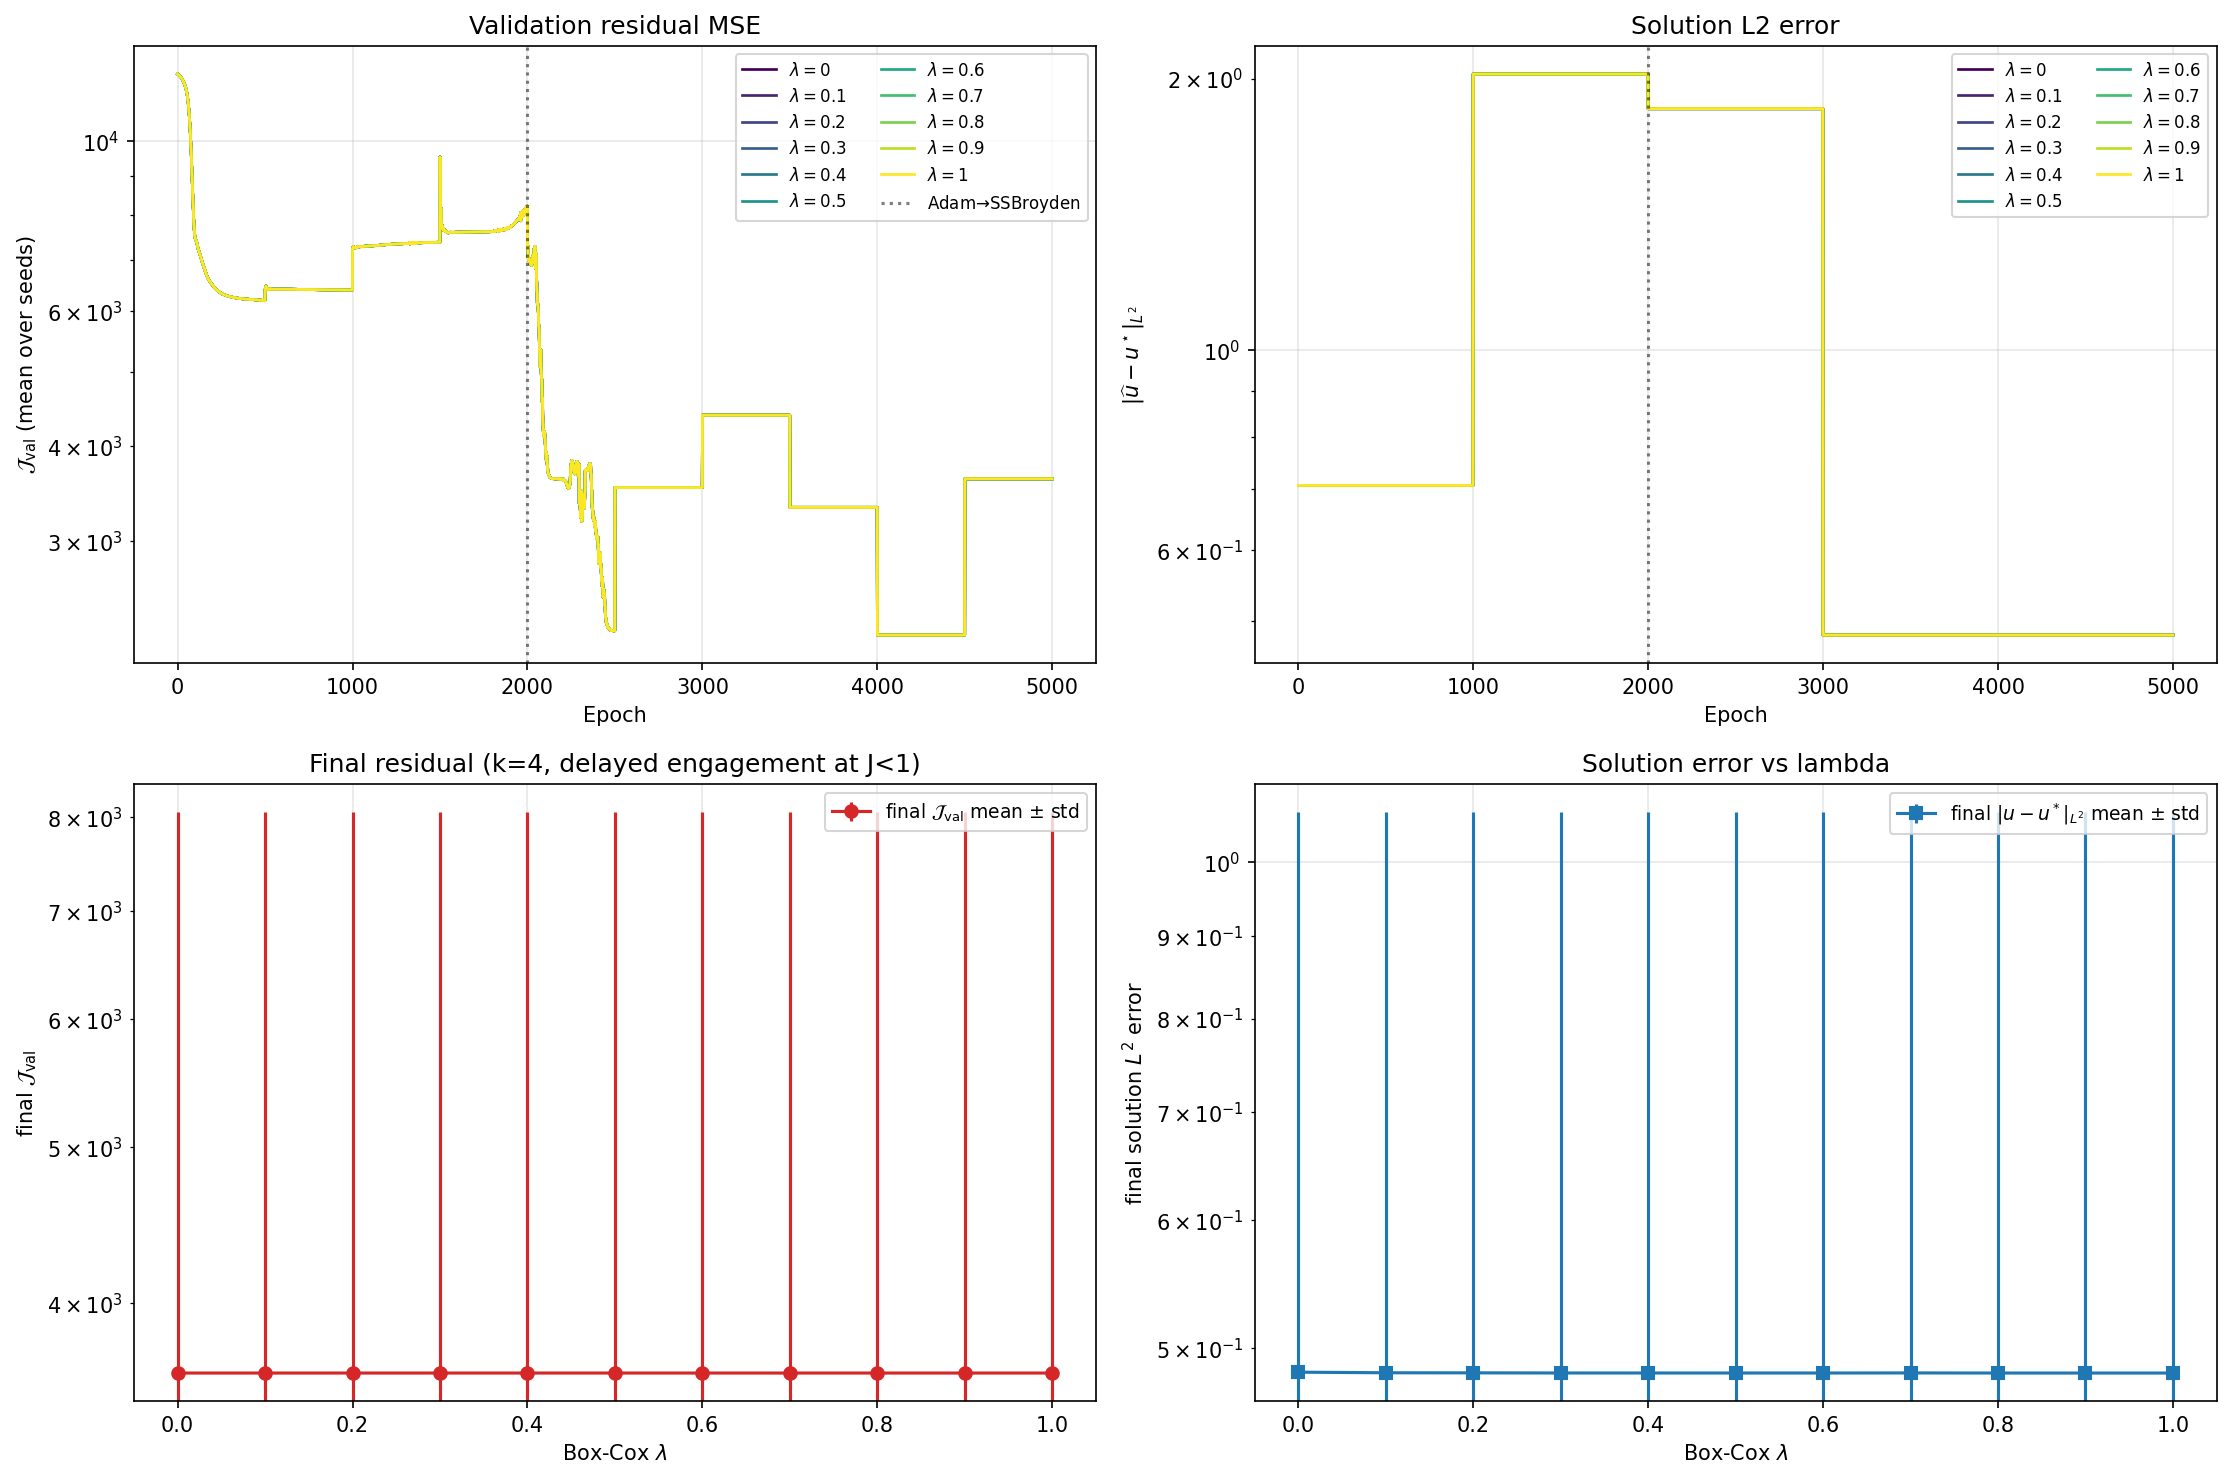
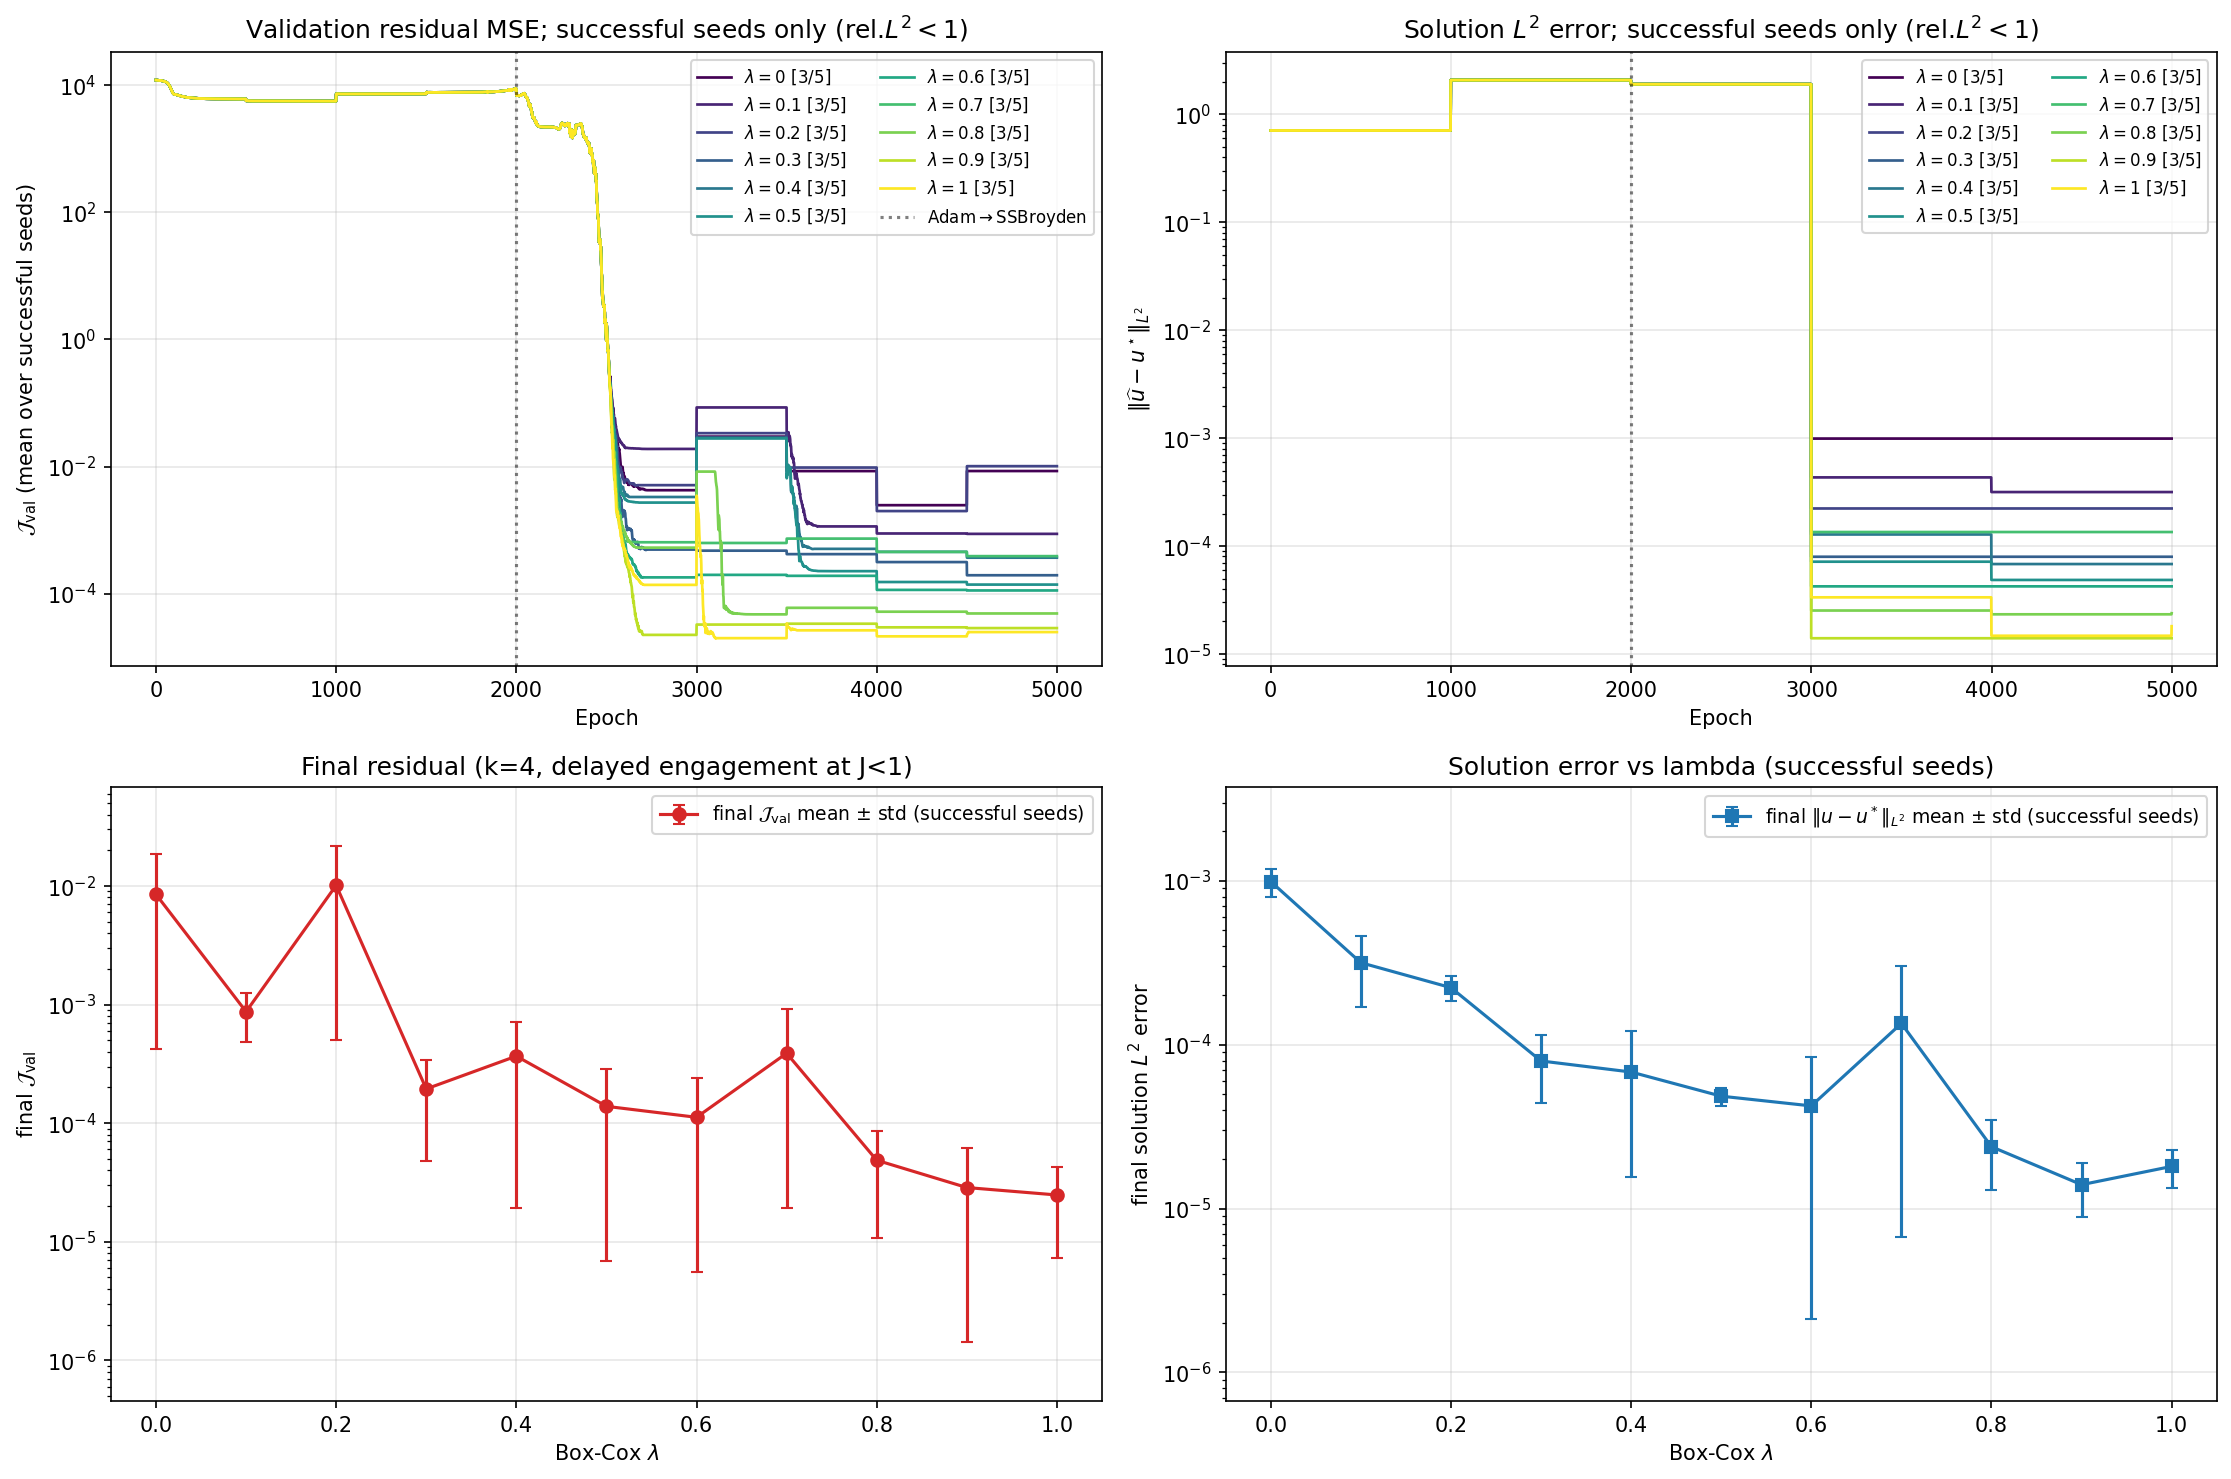
iteration

diff --git a/BVP/one_d/boxcox_sweep_1d_finegrained.py b/BVP/one_d/boxcox_sweep_1d_finegrained.py
@@ -126,6 +126,24 @@ class SeedResult:
     sol_l2_history: np.ndarray
 
 
+# A seed counts as successful iff its final relative L^2 error sits below
+# this threshold. 1.0 puts the cut-off at the trivial zero predictor; with
+# u_exact = sin(4 pi x) on [0,1] that's at ||u_exact||_{L^2} = sqrt(1/2),
+# so a seed that fails to escape the Adam plateau saturates near rel.L^2 ~= 1.
+# All conditional statistics in plot_sweep / write_summary are taken over the
+# success subset to avoid having the unconditional mean dominated by 1-2 seeds
+# that never enter the small-loss regime (which silently wipes out the
+# lambda dependence on networks that are near the edge of trainability).
+SUCCESS_REL_L2_DEFAULT: float = 1.0
+
+
+def is_successful(s: "SeedResult", rel_l2_threshold: float) -> bool:
+    """True iff the final iterate beats the configured rel. L^2 threshold."""
+    return bool(np.isfinite(s.final_sol_rel_l2)) and (
+        s.final_sol_rel_l2 < rel_l2_threshold
+    )
+
+
 @dataclass(frozen=True)
 class LambdaResult:
     lambda_: float
@@ -146,6 +164,24 @@ class LambdaResult:
     @property
     def final_sol_l2_std(self) -> float:
         return float(np.std([s.final_sol_l2 for s in self.seeds]))
+
+    def successful(self, rel_l2_threshold: float) -> tuple[SeedResult, ...]:
+        return tuple(s for s in self.seeds if is_successful(s, rel_l2_threshold))
+
+    def cond_stats(
+        self, attr: str, rel_l2_threshold: float
+    ) -> tuple[int, float, float]:
+        """Return (n_success, mean, std) over the successful seeds.
+
+        If no seed succeeded, returns (0, NaN, NaN). NaN-not-zero is what
+        keeps matplotlib's log axes from auto-extending to absurd negative
+        decades when a lambda has no successful run.
+        """
+        succ = self.successful(rel_l2_threshold)
+        if not succ:
+            return 0, float("nan"), float("nan")
+        vals = [getattr(s, attr) for s in succ]
+        return len(succ), float(np.mean(vals)), float(np.std(vals))
 
 
 # =============================================================================
@@ -303,49 +339,126 @@ def run_sweep(
 # =============================================================================
 # Plotting
 # =============================================================================
-def plot_sweep(results: tuple[LambdaResult, ...], out_path: str, k: float,
-               adam_epochs: int, engage_threshold: Optional[float]) -> None:
+def _log_safe_yerr(
+    means: np.ndarray, stds: np.ndarray
+) -> np.ndarray:
+    """Convert symmetric ``mean +- std`` into asymmetric whiskers that never
+    reach <=0 on a log axis. Returns a 2xN array suitable for ``yerr=``.
+
+    When std > mean, the lower whisker would otherwise be non-positive;
+    matplotlib silently clips it to a tiny value and the axis auto-limits
+    blow up. Capping the lower whisker at 0.95*mean keeps it strictly
+    positive while still showing the seedwise spread when std < mean.
+    NaN cells (lambda with zero successful seeds) get yerr=0; the
+    accompanying NaN ``means`` value makes matplotlib skip drawing.
+    """
+    m = np.asarray(means, dtype=float)
+    s = np.asarray(stds, dtype=float)
+    lo = np.where(np.isfinite(m), np.minimum(s, 0.95 * np.abs(m)), 0.0)
+    hi = np.where(np.isfinite(m), s, 0.0)
+    return np.vstack([lo, hi])
+
+
+def plot_sweep(
+    results: tuple[LambdaResult, ...],
+    out_path: str,
+    k: float,
+    adam_epochs: int,
+    engage_threshold: Optional[float],
+    rel_l2_threshold: float = SUCCESS_REL_L2_DEFAULT,
+) -> None:
+    """Compose the four-panel sweep figure using only successful seeds.
+
+    Failed seeds (final rel.L^2 >= ``rel_l2_threshold``) are excluded from
+    every aggregate statistic; lambdas with zero successful seeds get a
+    "0/N succeeded" annotation in the bar panels and no trajectory in the
+    line panels.
+    """
     fig, ax = plt.subplots(2, 2, figsize=(15, 10))
 
     cmap = plt.get_cmap("viridis")
     n = len(results)
+    success_counts: list[tuple[int, int]] = []
 
-    # (0,0) Mean J(val) trajectory per lambda (averaged across seeds).
+    # (0,0) and (0,1) -- mean trajectories per lambda, conditional on success.
     for i, lr in enumerate(results):
         c = cmap(i / max(n - 1, 1))
-        # Pad histories to common length (early stopping is disabled).
-        H = np.stack([s.J_val_history for s in lr.seeds], axis=0)
-        mean = np.mean(H, axis=0)
-        ax[0, 0].semilogy(mean, color=c, linewidth=1.3, label=rf"$\lambda={lr.lambda_:g}$")
-    ax[0, 0].axvline(adam_epochs, color="k", linestyle=":", alpha=0.5, label="Adam$\\to$SSBroyden")
+        succ = lr.successful(rel_l2_threshold)
+        n_succ, n_total = len(succ), len(lr.seeds)
+        success_counts.append((n_succ, n_total))
+        succ_tag = f" [{n_succ}/{n_total}]"
+        if n_succ == 0:
+            # Reserve the legend slot but draw nothing.
+            ax[0, 0].plot([], [], color=c, linewidth=1.3,
+                          label=rf"$\lambda={lr.lambda_:g}${succ_tag}")
+            ax[0, 1].plot([], [], color=c, linewidth=1.3,
+                          label=rf"$\lambda={lr.lambda_:g}${succ_tag}")
+            continue
+        H = np.stack([s.J_val_history for s in succ], axis=0)
+        ax[0, 0].semilogy(np.mean(H, axis=0), color=c, linewidth=1.3,
+                          label=rf"$\lambda={lr.lambda_:g}${succ_tag}")
+        S = np.stack([s.sol_l2_history for s in succ], axis=0)
+        ax[0, 1].semilogy(np.mean(S, axis=0), color=c, linewidth=1.3,
+                          label=rf"$\lambda={lr.lambda_:g}${succ_tag}")
+
+    ax[0, 0].axvline(adam_epochs, color="k", linestyle=":", alpha=0.5,
+                     label="Adam$\\to$SSBroyden")
     ax[0, 0].set_xlabel("Epoch")
-    ax[0, 0].set_ylabel(r"$\mathcal{J}_{\mathrm{val}}$ (mean over seeds)")
-    ax[0, 0].set_title("Validation residual MSE")
+    ax[0, 0].set_ylabel(r"$\mathcal{J}_{\mathrm{val}}$ (mean over successful seeds)")
+    ax[0, 0].set_title(
+        f"Validation residual MSE; successful seeds only "
+        f"(rel.$L^2<{rel_l2_threshold:g}$)"
+    )
     ax[0, 0].grid(True, alpha=0.3)
     ax[0, 0].legend(fontsize=8, ncol=2)
 
-    # (0,1) Mean solution L2 trajectory per lambda.
-    for i, lr in enumerate(results):
-        c = cmap(i / max(n - 1, 1))
-        H = np.stack([s.sol_l2_history for s in lr.seeds], axis=0)
-        mean = np.mean(H, axis=0)
-        ax[0, 1].semilogy(mean, color=c, linewidth=1.3, label=rf"$\lambda={lr.lambda_:g}$")
     ax[0, 1].axvline(adam_epochs, color="k", linestyle=":", alpha=0.5)
     ax[0, 1].set_xlabel("Epoch")
     ax[0, 1].set_ylabel(r"$\|\widehat{u} - u^\star\|_{L^2}$")
-    ax[0, 1].set_title("Solution L2 error")
+    ax[0, 1].set_title(
+        f"Solution $L^2$ error; successful seeds only "
+        f"(rel.$L^2<{rel_l2_threshold:g}$)"
+    )
     ax[0, 1].grid(True, alpha=0.3)
     ax[0, 1].legend(fontsize=8, ncol=2)
 
-    # (1,0) Final J(val) mean +/- std as bar / errorbar plot.
+    # (1,0) and (1,1) -- final values per lambda, conditional on success.
     lams = np.asarray([r.lambda_ for r in results])
-    means_J = np.asarray([r.final_J_val_mean for r in results])
-    stds_J = np.asarray([r.final_J_val_std for r in results])
-    means_sol = np.asarray([r.final_sol_l2_mean for r in results])
-    stds_sol = np.asarray([r.final_sol_l2_std for r in results])
+    cond = [r.cond_stats("final_J_val", rel_l2_threshold) for r in results]
+    means_J = np.asarray([m for _, m, _ in cond], dtype=float)
+    stds_J = np.asarray([s for _, _, s in cond], dtype=float)
+    cond_s = [r.cond_stats("final_sol_l2", rel_l2_threshold) for r in results]
+    means_sol = np.asarray([m for _, m, _ in cond_s], dtype=float)
+    stds_sol = np.asarray([s for _, _, s in cond_s], dtype=float)
 
-    ax[1, 0].errorbar(lams, means_J, yerr=stds_J, fmt="o-", color="C3",
-                      label=r"final $\mathcal{J}_{\mathrm{val}}$ mean $\pm$ std")
+    def _set_log_ylim(
+        axis: plt.Axes, means: np.ndarray, stds: np.ndarray
+    ) -> None:
+        m = np.asarray(means, dtype=float)
+        s = np.asarray(stds, dtype=float)
+        mask = np.isfinite(m)
+        if not mask.any():
+            return
+        lo_cand = np.maximum(m[mask] - np.minimum(s[mask], 0.95 * m[mask]),
+                             m[mask] * 0.05)
+        hi_cand = m[mask] + s[mask]
+        lo, hi = float(np.min(lo_cand)), float(np.max(hi_cand))
+        if lo <= 0 or not np.isfinite(lo) or not np.isfinite(hi):
+            return
+        axis.set_ylim(lo / np.sqrt(10.0), hi * np.sqrt(10.0))
+
+    def _annotate_empty(axis: plt.Axes, means: np.ndarray) -> None:
+        y_lo, _ = axis.get_ylim()
+        for lam_val, m, (n_succ, n_total) in zip(lams, means, success_counts):
+            if np.isfinite(m):
+                continue
+            axis.text(lam_val, y_lo * 3,
+                      f"{n_succ}/{n_total}",
+                      ha="center", va="bottom", fontsize=8, color="dimgray")
+
+    ax[1, 0].errorbar(lams, means_J, yerr=_log_safe_yerr(means_J, stds_J),
+                      fmt="o-", color="C3", capsize=3,
+                      label=r"final $\mathcal{J}_{\mathrm{val}}$ mean $\pm$ std (successful seeds)")
     ax[1, 0].set_yscale("log")
     ax[1, 0].set_xlabel(r"Box-Cox $\lambda$")
     ax[1, 0].set_ylabel(r"final $\mathcal{J}_{\mathrm{val}}$")
@@ -356,21 +469,33 @@ def plot_sweep(results: tuple[LambdaResult, ...], out_path: str, k: float,
         title += f", delayed engagement at J<{engage_threshold:g}"
     title += ")"
     ax[1, 0].set_title(title)
+    _set_log_ylim(ax[1, 0], means_J, stds_J)
+    _annotate_empty(ax[1, 0], means_J)
 
-    ax[1, 1].errorbar(lams, means_sol, yerr=stds_sol, fmt="s-", color="C0",
-                      label=r"final $\|u-u^*\|_{L^2}$ mean $\pm$ std")
+    ax[1, 1].errorbar(lams, means_sol, yerr=_log_safe_yerr(means_sol, stds_sol),
+                      fmt="s-", color="C0", capsize=3,
+                      label=r"final $\|u-u^*\|_{L^2}$ mean $\pm$ std (successful seeds)")
     ax[1, 1].set_yscale("log")
     ax[1, 1].set_xlabel(r"Box-Cox $\lambda$")
     ax[1, 1].set_ylabel(r"final solution $L^2$ error")
     ax[1, 1].grid(True, alpha=0.3)
     ax[1, 1].legend(fontsize=9)
-    ax[1, 1].set_title("Solution error vs lambda")
+    ax[1, 1].set_title("Solution error vs lambda (successful seeds)")
+    _set_log_ylim(ax[1, 1], means_sol, stds_sol)
+    _annotate_empty(ax[1, 1], means_sol)
 
     plt.tight_layout()
     os.makedirs(os.path.dirname(out_path) or ".", exist_ok=True)
     fig.savefig(out_path, dpi=150, bbox_inches="tight")
     print(f"Saved sweep figure to: {out_path}")
     plt.close(fig)
+
+
+def _fmt_stat(values: list[float]) -> tuple[str, str]:
+    """Return ``(mean, std)`` as strings, or ``("n/a", "n/a")`` when empty."""
+    if not values:
+        return "n/a", "n/a"
+    return f"{float(np.mean(values)):.4e}", f"{float(np.std(values)):.4e}"
 
 
 def write_summary(
@@ -382,30 +507,60 @@ def write_summary(
     adam_epochs: int,
     engage_threshold: Optional[float],
     seeds: tuple[int, ...],
+    rel_l2_threshold: float = SUCCESS_REL_L2_DEFAULT,
 ) -> None:
+    """Write a two-section summary: success counts + conditional aggregates,
+    then per-seed final metrics with ok/FAIL flags so failed runs stay
+    auditable in the artefact."""
     lines: list[str] = []
     lines.append(
         f"Fine-grained Box-Cox sweep (1D BVP, k={k:g}, qn={qn_variant}, "
         f"epochs={n_epochs}, adam={adam_epochs}, seeds={list(seeds)})\n"
     )
     if engage_threshold is not None:
-        lines.append(f"Delayed engagement: transformation engages once J < {engage_threshold:g}.\n")
-    lines.append("\n")
+        lines.append(
+            f"Delayed engagement: transformation engages once J < "
+            f"{engage_threshold:g}.\n"
+        )
     lines.append(
-        f"{'lambda':>8}   "
-        f"{'mean J':>16}  {'std J':>14}    "
-        f"{'mean solL2':>16}  {'std solL2':>14}    "
-        f"{'engaged':>10}\n"
+        f"Success criterion: final relative L^2 error < {rel_l2_threshold:g}.\n\n"
+    )
+
+    lines.append("== Aggregate statistics over successful seeds ==\n")
+    lines.append(
+        f"{'lambda':>8}  {'n_succ':>8}  "
+        f"{'mean J':>14}  {'std J':>14}    "
+        f"{'mean solL2':>14}  {'std solL2':>14}    "
+        f"{'engaged':>16}\n"
     )
     for lr in results:
-        eng = [s.engagement_epoch for s in lr.seeds if s.engagement_epoch is not None]
+        succ = lr.successful(rel_l2_threshold)
+        n_succ, n_total = len(succ), len(lr.seeds)
+        mJ, sJ = _fmt_stat([s.final_J_val for s in succ])
+        mS, sS = _fmt_stat([s.final_sol_l2 for s in succ])
+        eng = [s.engagement_epoch for s in succ if s.engagement_epoch is not None]
         eng_str = f"epoch~{int(np.mean(eng))}" if eng else "never/from-start"
         lines.append(
-            f"{lr.lambda_:>8.4g}   "
-            f"{lr.final_J_val_mean:>16.4e}  {lr.final_J_val_std:>14.4e}    "
-            f"{lr.final_sol_l2_mean:>16.4e}  {lr.final_sol_l2_std:>14.4e}    "
-            f"{eng_str:>10}\n"
+            f"{lr.lambda_:>8.4g}  {n_succ:>3d}/{n_total:<3d}  "
+            f"{mJ:>14}  {sJ:>14}    "
+            f"{mS:>14}  {sS:>14}    "
+            f"{eng_str:>16}\n"
         )
+
+    lines.append("\n== Per-seed final metrics (all runs, including failures) ==\n")
+    lines.append(
+        f"{'lambda':>8}  {'seed':>6}  "
+        f"{'final J':>14}  {'final solL2':>14}  {'final relL2':>14}  status\n"
+    )
+    for lr in results:
+        for s in lr.seeds:
+            status = "ok" if is_successful(s, rel_l2_threshold) else "FAIL"
+            lines.append(
+                f"{lr.lambda_:>8.4g}  {s.seed:>6d}  "
+                f"{s.final_J_val:>14.4e}  {s.final_sol_l2:>14.4e}  "
+                f"{s.final_sol_rel_l2:>14.4e}  {status}\n"
+            )
+
     text = "".join(lines)
     with open(out_path, "w") as fh:
         fh.write(text)
@@ -511,6 +666,18 @@ def parse_args(argv: list[str] | None = None) -> argparse.Namespace:
         type=str,
         default=os.path.join("..", "results"),
     )
+    p.add_argument(
+        "--success-rel-l2-threshold",
+        type=float,
+        default=SUCCESS_REL_L2_DEFAULT,
+        help=(
+            "Final relative L^2 error below which a seed is considered "
+            "successful. Default 1.0 (= the trivial zero predictor). "
+            "Aggregates in the figure and summary table are taken over "
+            "the successful subset; tighten this if you only want clearly "
+            "trained runs."
+        ),
+    )
     return p.parse_args(argv)
 
 
@@ -575,6 +742,7 @@ def main(argv: list[str] | None = None) -> None:
         adam_epochs=args.adam_epochs,
         engage_threshold=args.engage_threshold,
         seeds=seeds,
+        rel_l2_threshold=args.success_rel_l2_threshold,
     )
     plot_sweep(
         results=results,
@@ -582,6 +750,7 @@ def main(argv: list[str] | None = None) -> None:
         k=args.wavenumber,
         adam_epochs=args.adam_epochs,
         engage_threshold=args.engage_threshold,
+        rel_l2_threshold=args.success_rel_l2_threshold,
     )
 
     # Persist raw histories for later replotting.